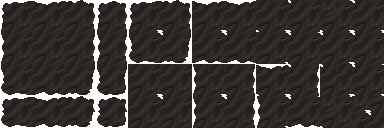
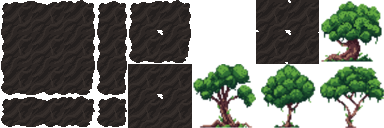
ajout assets

diff --git a/Info_de_nuit-BasePHPchris/public/game/game.js b/Info_de_nuit-BasePHPchris/public/game/game.js
@@ -26,7 +26,7 @@ function gameLoop(timeStamp) {
     // Calculate fps
     g_ctx.fps = Math.round(1 / g_ctx.secondsPassed);
     // change text of fps indicator
-    g_ctx.fpsIndicator.textContent = "FPS : " + g_ctx.fps
+    //g_ctx.fpsIndicator.textContent = "FPS : " + g_ctx.fps
 
     if (g_ctx.new_anim_cpt >= 8) {
         g_ctx.new_anim_cpt = 0
@@ -73,16 +73,7 @@ function draw_home_screen() {
 function home_screen_buttons() {
     let spacing = 15
     g_ctx.home_screen_buttons = [
-        new Button(50, (1*spacing)   ,"").setLabel(new Label(30, 15, "level 1")),
-        new Button(50, (2*spacing)+10*2,"").setLabel(new Label(30, 15, "level 2")),
-        new Button(50, (3*spacing)+20*2,"").setLabel(new Label(30, 15, "level 3")),
-        new Button(50, (4*spacing)+30*2,"").setLabel(new Label(30, 15, "level 4")),
-        new Button(50, (5*spacing)+40*2,"").setLabel(new Label(30, 15, "level 5")),
-        new Button(50, (6*spacing)+50*2,"").setLabel(new Label(30, 15, "level 6")),
-        new Button(50, (7*spacing)+60*2,"").setLabel(new Label(30, 15, "level 7")),
-        new Button(50, (8*spacing)+70*2,"").setLabel(new Label(30, 15, "level 8")),
-        new Button(50, (9*spacing)+80*2,"").setLabel(new Label(30, 15, "level 9")),
-        new Button(50, (10*spacing)+90*2,"").setLabel(new Label(30, 15, "level 10")),
+        new Button(50, (1*spacing)   ,"").setLabel(new Label(30, 15, "niveau 1")),
         
         new Button(370, (7*spacing)+0*2,"").setLabel(new Label(30, 15, "Editeur")),
         new Button(370, (7*spacing)+20*2,"").setLabel(new Label(30, 15, "Jouer")),
@@ -150,6 +141,7 @@ function init(){
 
     home_screen_buttons()
     draw_home_screen()
+
 
     // Start the first frame request
     window.requestAnimationFrame(gameLoop)

diff --git a/Info_de_nuit-BasePHPchris/public/game/screens/gameScreen.js b/Info_de_nuit-BasePHPchris/public/game/screens/gameScreen.js
@@ -5,7 +5,7 @@ import { intersect } from "../other/intersectFunctions.js";
 
 class PlatformerGameScreen {
     constructor(){
-        this.back_ground_need_update = false
+        this.back_ground_need_update = true
     }
 
     draw() {
@@ -19,6 +19,11 @@ class PlatformerGameScreen {
         if( !(g_ctx.level_as_been_drawed) || this.back_ground_need_update){
             g_ctx.player.draw_hitboxes = false
             g_ctx.context_background.clearRect(0,0,800, 800)
+
+            // drawing background image
+            let bg = new Image()
+            bg.src = './assets/decor/skyBG.png'
+            g_ctx.context_background.drawImage(bg, 0, 0, 900, 900)
             
             //draw back layer
             levels[g_ctx.current_level].back_layer.objects.forEach(el => {

diff --git a/Info_de_nuit-BasePHPchris/public/game/jeux.html b/Info_de_nuit-BasePHPchris/public/game/jeux.html
@@ -11,13 +11,18 @@
     <link rel="stylesheet" href="./game.css">
 </head>
 <body style="background-color: black;">
+
+    <div id="lost">
+        vous avez succombé au VIH
+    </div>
+
     <div id="return_button" style="position: absolute; margin-top: 10px; ; margin-left: 810px; z-index: 2; background-color: white; clip-path: circle(17px); display: none;">
         <img src="./assets/Back_Arrow.png" alt="return button" height="40" width="40" style="justify-content: center; align-items: center;">
     </div>
 
     <div id="health_bar">
         <div id="health_bar_inside">
-            santé
+            infections
         </div>
     </div>
 

diff --git a/Info_de_nuit-BasePHPchris/public/game/other/dialogues.js b/Info_de_nuit-BasePHPchris/public/game/other/dialogues.js
@@ -29,7 +29,7 @@ const dialogues = [
     {"NumDialogue": 4,
     "tableau dialogue":["Sasha  et Lou se sont connus sur une appli de rencontre et vont bientôt avoir leur premier rapport.  Mais Sasha a une confession à faire a Lou .",
     "Sasha: 'Panique pas hein ? Je suis séropositif mais je prend un traitement .'",
-    "Quoi mais si tu saigne de la bouche en me roulant une giga pelle tu va me le refiler c’est sûr"
+    "Lou : Quoi mais si tu saigne de la bouche en me roulant une giga pelle tu va me le refiler c’est sûr"
     ]
     
     },

diff --git a/Info_de_nuit-BasePHPchris/public/game/game.css b/Info_de_nuit-BasePHPchris/public/game/game.css
@@ -23,7 +23,7 @@ body {
     margin-left: 820px;
     width: 300px;
     height: 40px;
-    background-color: white;
+    background-color: yellow;
     border: 3px solid white;
 } 
 #health_bar_inside {
@@ -99,4 +99,17 @@ body {
     display: flex;
     justify-content: center;
     align-items: center;
+}
+
+#lost {
+    position: absolute;
+    margin-left: 10vw;
+    margin-top: 10vh;
+    width: 70%;
+    height: 80%;
+    z-index: 200;
+    display: none;
+    background-color: white;
+    border: 8px solid black;
+    font-size: 96px;
 }

diff --git a/Info_de_nuit-BasePHPchris/public/game/other/storyScripting.js b/Info_de_nuit-BasePHPchris/public/game/other/storyScripting.js
@@ -29,6 +29,11 @@ function check() {
 
         document.getElementById('button_next').style.display = "flex"
     }
+
+    if ( g_ctx.health <= 0 ) {
+        document.getElementById('lost').style.display = "block"
+        g_ctx.stop_game = true
+    }
 }
 
 
